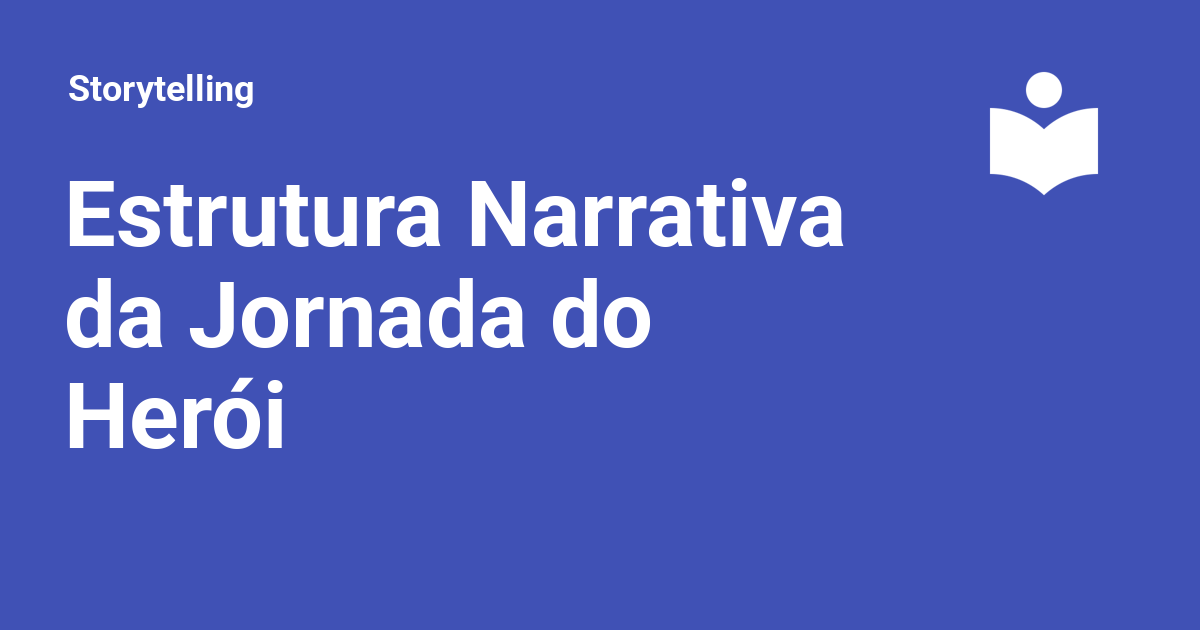
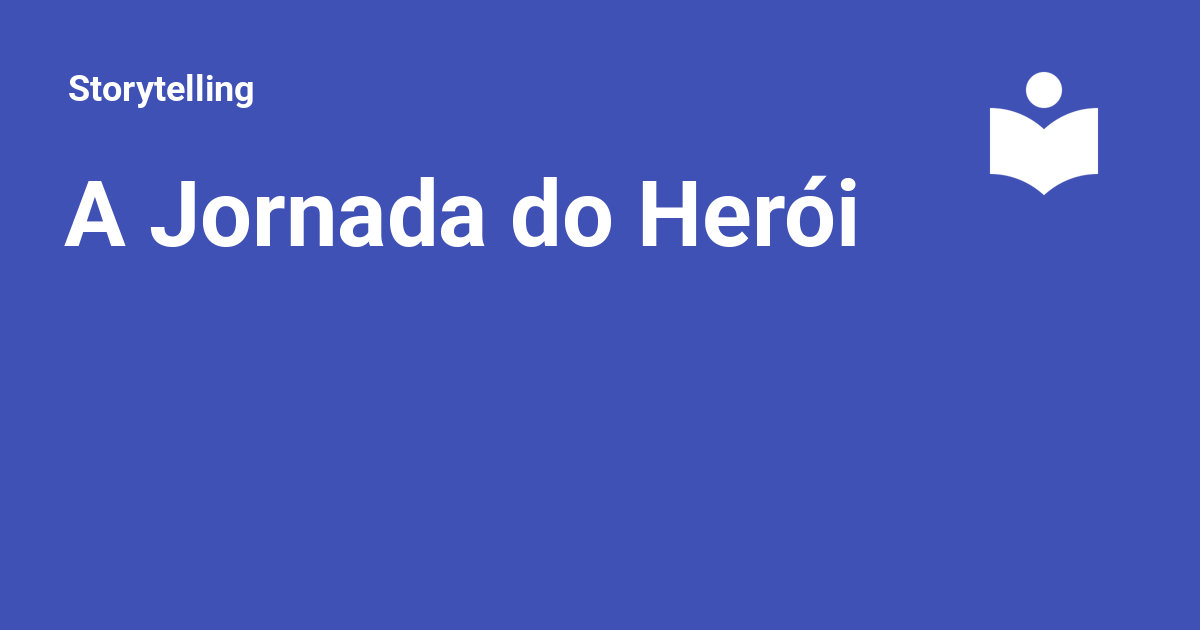
Deployed 75ac0f3 with MkDocs version: 1.6.1

Changed region(s): [[0.0308, 0.2714, 0.74, 0.3921], [0.0308, 0.4222, 0.555, 0.573], [0.0308, 0.6032, 0.2467, 0.7238]]

diff --git a/estruturas-narrativas/jornada-do-heroi/index.html b/estruturas-narrativas/jornada-do-heroi/index.html
@@ -20,7 +20,7 @@
     
     
       
-        <title>Estrutura Narrativa da Jornada do Herói - Storytelling</title>
+        <title>A Jornada do Herói - Storytelling</title>
       
     
     
@@ -55,7 +55,7 @@
       
         <meta  property="og:type"  content="website" >
       
-        <meta  property="og:title"  content="Estrutura Narrativa da Jornada do Herói - Storytelling" >
+        <meta  property="og:title"  content="A Jornada do Herói - Storytelling" >
       
         <meta  property="og:description"  content="None" >
       
@@ -71,7 +71,7 @@
       
         <meta  name="twitter:card"  content="summary_large_image" >
       
-        <meta  name="twitter:title"  content="Estrutura Narrativa da Jornada do Herói - Storytelling" >
+        <meta  name="twitter:title"  content="A Jornada do Herói - Storytelling" >
       
         <meta  name="twitter:description"  content="None" >
       
@@ -98,7 +98,7 @@
     <div data-md-component="skip">
       
         
-        <a href="#estrutura-narrativa-da-jornada-do-heroi" class="md-skip">
+        <a href="#a-jornada-do-heroi" class="md-skip">
           Skip to content
         </a>
       
@@ -132,7 +132,7 @@
         <div class="md-header__topic" data-md-component="header-topic">
           <span class="md-ellipsis">
             
-              Estrutura Narrativa da Jornada do Herói
+              A Jornada do Herói
             
           </span>
         </div>
@@ -414,7 +414,7 @@
           
   
   <span class="md-ellipsis">
-    Estrutura Narrativa da Jornada do Herói
+    A Jornada do Herói
   </span>
   
 
@@ -425,7 +425,7 @@
         
   
   <span class="md-ellipsis">
-    Estrutura Narrativa da Jornada do Herói
+    A Jornada do Herói
   </span>
   
 
@@ -680,7 +680,7 @@
   
 
 
-<h1 id="estrutura-narrativa-da-jornada-do-heroi">Estrutura Narrativa da Jornada do Herói<a class="headerlink" href="#estrutura-narrativa-da-jornada-do-heroi" title="Permanent link">&para;</a></h1>
+<h1 id="a-jornada-do-heroi">A Jornada do Herói<a class="headerlink" href="#a-jornada-do-heroi" title="Permanent link">&para;</a></h1>
 <h2 id="1-introducao">1. Introdução<a class="headerlink" href="#1-introducao" title="Permanent link">&para;</a></h2>
 <p>A Jornada do Herói é um modelo narrativo amplamente utilizado na literatura, no cinema e em outras formas de narrativa. Criado por Joseph Campbell no livro "O Herói de Mil Faces", esse modelo descreve um padrão recorrente de desenvolvimento da história, estruturando a evolução do protagonista.</p>
 <h2 id="2-objetivo">2. Objetivo<a class="headerlink" href="#2-objetivo" title="Permanent link">&para;</a></h2>

diff --git a/index.html b/index.html
@@ -403,7 +403,7 @@
         
   
   <span class="md-ellipsis">
-    Estrutura Narrativa da Jornada do Herói
+    A Jornada do Herói
   </span>
   
 
@@ -496,13 +496,13 @@
         
         
           
-          <a href="estruturas-narrativas/jornada-do-heroi/" class="md-footer__link md-footer__link--next" aria-label="Next: Estrutura Narrativa da Jornada do Herói">
+          <a href="estruturas-narrativas/jornada-do-heroi/" class="md-footer__link md-footer__link--next" aria-label="Next: A Jornada do Herói">
             <div class="md-footer__title">
               <span class="md-footer__direction">
                 Next
               </span>
               <div class="md-ellipsis">
-                Estrutura Narrativa da Jornada do Herói
+                A Jornada do Herói
               </div>
             </div>
             <div class="md-footer__button md-icon">

diff --git a/404.html b/404.html
@@ -363,7 +363,7 @@
         
   
   <span class="md-ellipsis">
-    Estrutura Narrativa da Jornada do Herói
+    A Jornada do Herói
   </span>
   
 
